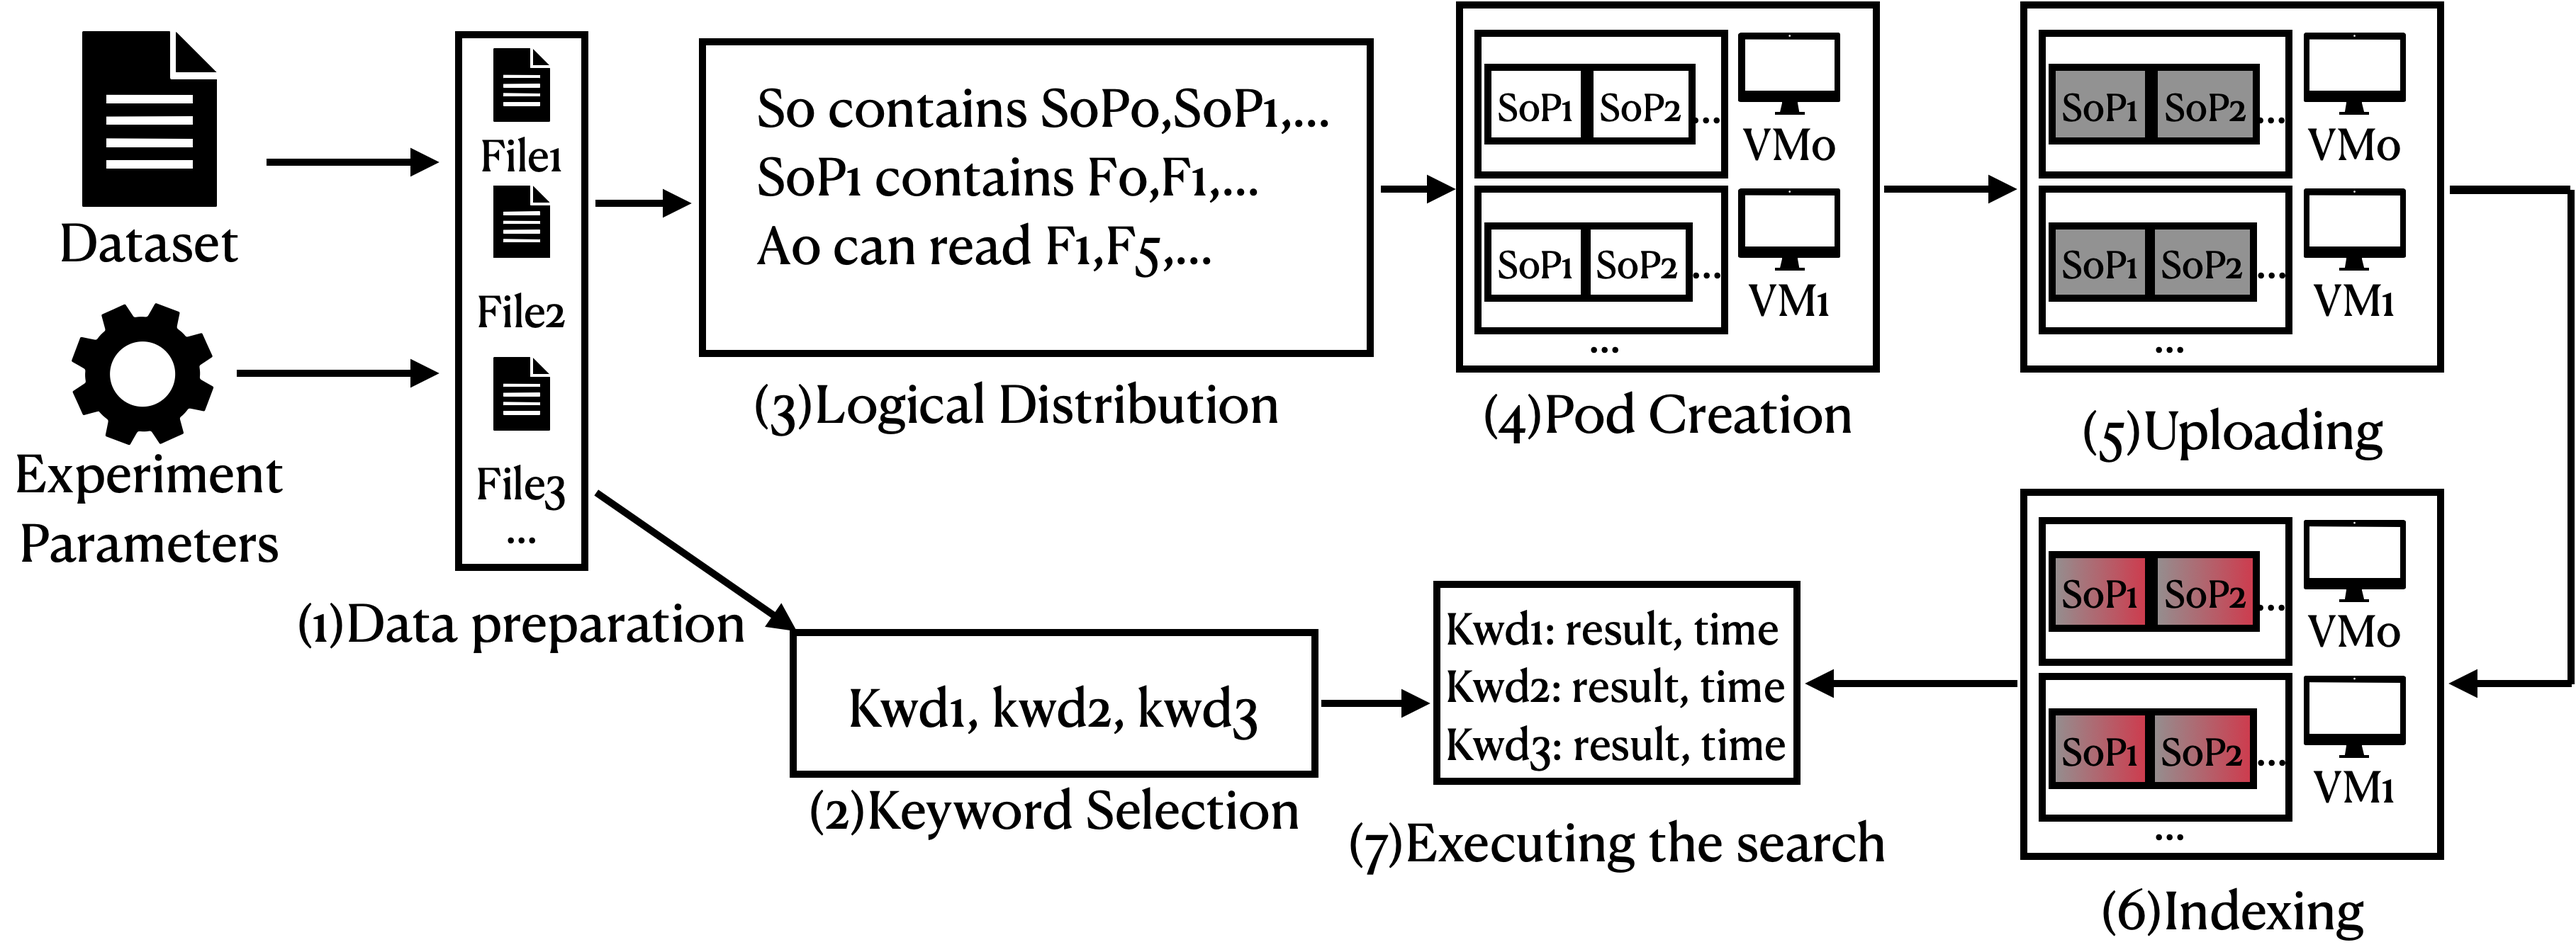
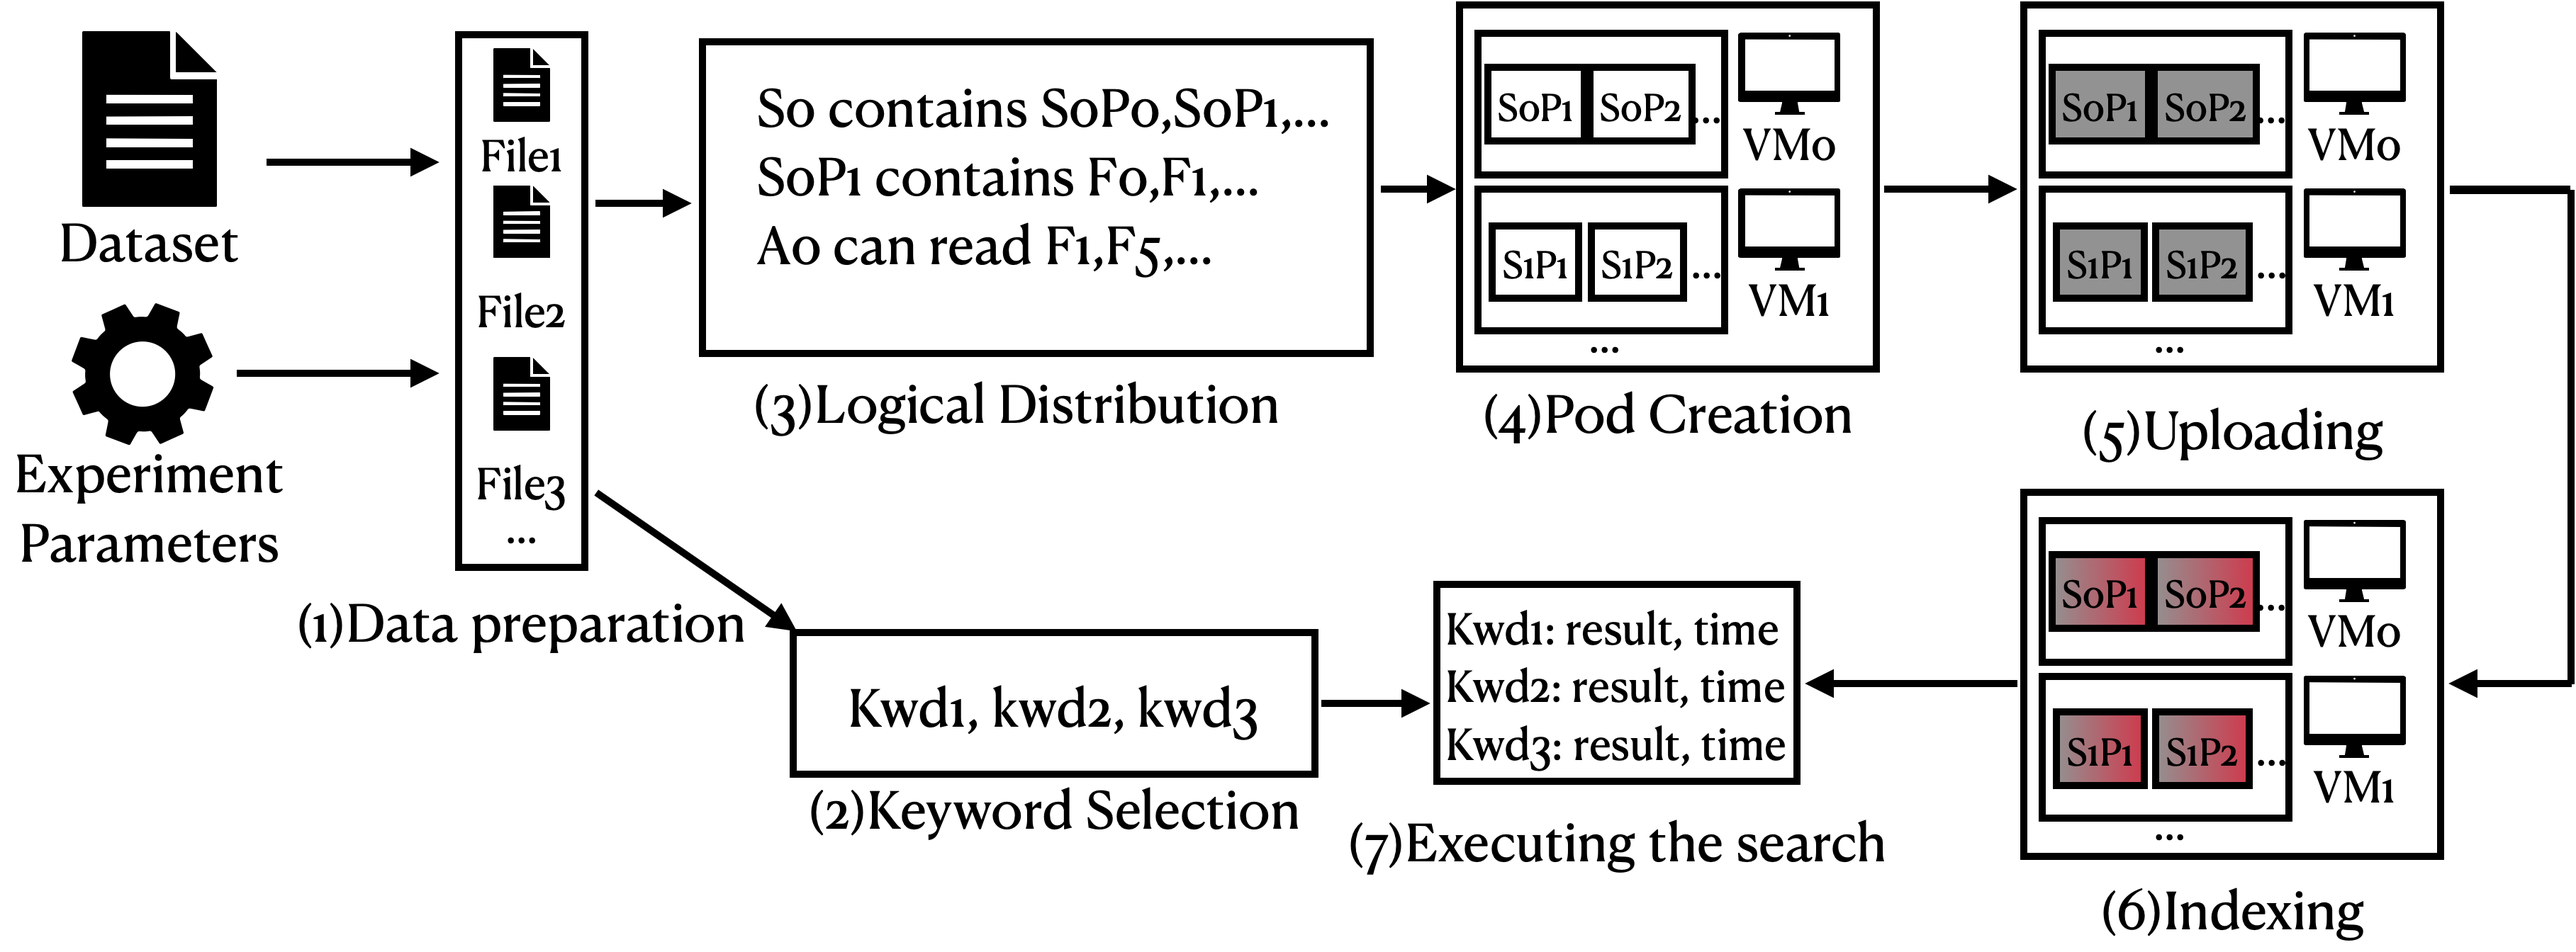
Experiment setup pic 2

Changed region(s): [[0.7774, 0.25, 0.9018, 0.3125], [0.5597, 0.25, 0.6841, 0.3125], [0.7774, 0.75, 0.9018, 0.8125]]

diff --git a/README.md b/README.md
@@ -84,6 +84,8 @@ There are three experiment setups currently ```webidexperiment```, ```webidlocal
 
 ```zipexperiment``` creates pods, then for each pod creates a zip file that contains all the files in the pod and another zip file with the index, and uploads the zip files to the servers via ssh, where they need to be unzipped to pods.
 
+![](./Documentation/imgs/ExperimentSetup2.png)
+
 To create an experiment
 
 <pre>
